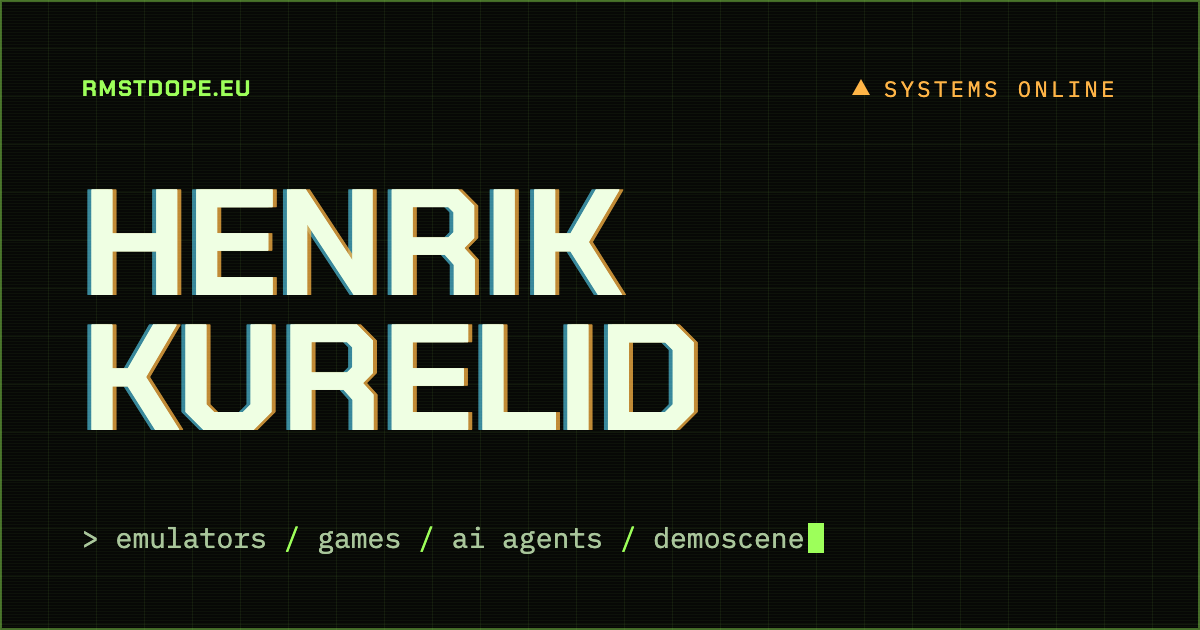
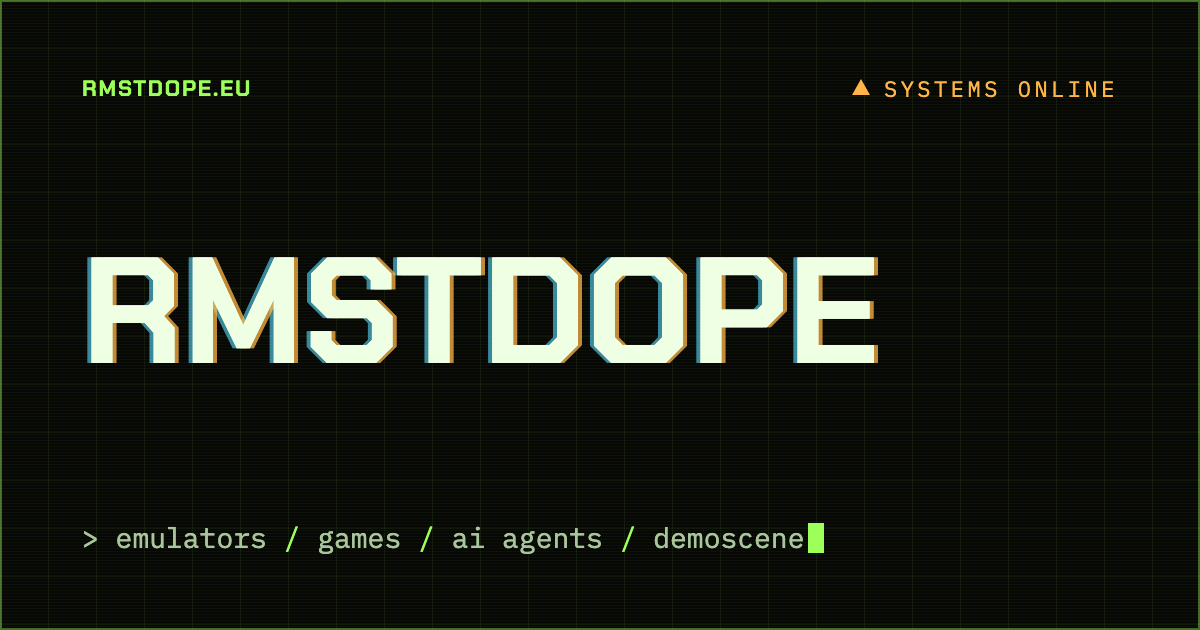
Present the site as rmstdope instead of a full name
Replace the real name in the hero, status bar, footer, page title,
metadata and share image. Mark cerebro as running and describe the
Atlantis work as retro gaming.

Changed region(s): [[0.0617, 0.3016, 0.74, 0.6937]]

diff --git a/tests/e2e/page.spec.ts b/tests/e2e/page.spec.ts
@@ -38,7 +38,8 @@ test("shows the boot log immediately with reduced motion", async ({ page }) => {
   await page.emulateMedia({ reducedMotion: "reduce" });
   await page.goto("/");
   const opacity = await page
-    .locator(".boot .warn")
+    .locator(".boot .ok")
+    .last()
     .evaluate((el) => getComputedStyle(el).opacity);
   expect(opacity).toBe("1");
 });

diff --git a/deploy/test_container.py b/deploy/test_container.py
@@ -49,7 +49,7 @@ def verify(image, revision):
         assert code == 0 and "<html" in body, "Production HTML is not served"
         heading = re.search(r"<h1[^>]*>(.*?)</h1>", body, re.S)
         text = re.sub(r"<[^>]+>", " ", heading.group(1)) if heading else ""
-        assert text.split() == ["Henrik", "Kurelid"], "Landing heading is missing"
+        assert text.split() == ["rmstdope"], "Landing heading is missing"
         assert "cache-control: no-cache" in headers, "HTML must revalidate"
         stylesheets = re.findall(r'href="(/_astro/[^"]+\.css)"', body)
         assert stylesheets, "Production HTML has no hashed stylesheet"
